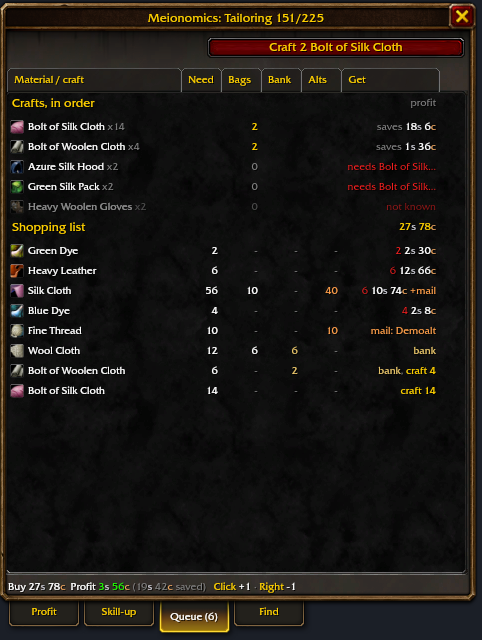
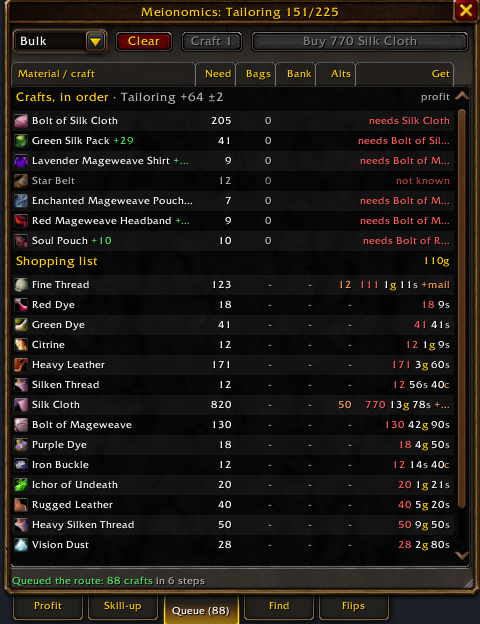
README: cheapest levelling first, with the cost table and Legacy points
Out of early test. A picture per feature: route, skill-up, queue, AH shopping, sniper,
sell, flips.

Claude-Session: https://claude.ai/code/session_01Fpmmnu4E83qHzSHWz72m5s

diff --git a/README.md b/README.md
@@ -1,29 +1,90 @@
 # Meionomics
 
-What to craft for profit or skill-ups, what to sell and what to buy, for WoW Forever.
+The cheapest way to level your professions in WoW Forever, plus what to craft for profit,
+what to sell and what to buy.
 
-**Early test, not ready yet.** Expect rough edges; feedback welcome on GitHub issues.
+## The cheapest way to level your professions
 
-![The Meionomics panel beside Tailoring at 151: recipes ranked by cost per skill point, each
-with a verdict (Do it, If levelling, Costly), chance of a skill-up and cost](docs/skillup.png)
+Meionomics plans every skill-up from your own Auction House's prices: which recipe at each
+step, what to buy, what to learn and what to sell back. With the same prices and the same
+skill-up chances, it costs less gold than following the guides.
 
-## What it does
+![Gold spent levelling 1 to 300 with the same AH prices and skill-up chances: Tailoring
+362g with Meionomics against 394g, 940g and 531g with the guides; Alchemy 26g against
+32g, 51g and 37g; Leatherworking 173g against 254g, 1049g and 386g](docs/cost.png)
 
-A panel beside your profession window, and a Meionomics tab at the Auction House. Uses
-TradeSkillMaster's prices when installed, else scans the AH itself.
+**Levelling professions for Legacy points?** Alchemy, Blacksmithing, Enchanting,
+Engineering, Leatherworking and Tailoring each give a Legacy point at 150, 225 and 300:
+18 points for your account. Meionomics gets you to each milestone for the least gold.
+
+## Route to a skill
+
+Type the skill you want and Meionomics gives the cheapest route there: which recipe for
+each stretch of skill, how many crafts, what to learn and every material in one list.
+
+![Route from Tailoring 151 to 225: seven steps from Green Silk Pack to Soul Pouch, each
+with crafts, learning cost and cost per point, and the materials to buy](docs/route.png)
+
+Hover the summary for what the route costs and what selling the crafts brings back.
+
+![The route's breakdown: materials to buy 104g, learning 4g 36s, crafts sold 120g, a net
+gain of 10g 66s](docs/route-cost.png)
+
+## Skill-up
+
+Every recipe that still gives points, known or learnable, cheapest per point first, with
+a verdict (Do it, If levelling, Costly), the chance of a skill-up and where to learn it.
+
+![Tailoring at 151: known and learnable recipes ranked by cost per skill point, each with
+a verdict and its skill-up chance](docs/skillup.png)
+
+## Queue
+
+Click recipes or a whole route to queue them. The queue works out what to take from bags,
+bank, mail and alts and what to buy, and crafts intermediates (bolts, bars) first.
+**Craft next** crafts the next step.
+
+![The queued route: crafts in order with what each still needs, then the shopping list
+with what bags, bank and alts already hold](docs/queue.png)
+
+## Auction House
+
+A Meionomics tab at the Auction House. Uses TradeSkillMaster's prices when installed, else
+scans the AH itself.
+
+**Shopping** buys what the queue needs, cheapest first, and skips listings priced too
+high.
+
+![Shopping: every listing of the queue's materials with its price against market, and buy
+or too dear for each](docs/shopping.png)
+
+**Sniper** watches new listings and sounds an alarm for deals below market or vendor
+price.
+
+![Sniper: listings under half their market price, sorted by profit](docs/sniper.png)
+
+**Sell** prices your bag items to sell within a day and posts them one click at a time.
+
+![Sell: bag items with the price to post at, the cheapest listing, the deposit and the
+chance it sells](docs/sell.png)
+
+Also: Browse (deals below market or vendor price), Patterns worth learning and BiS
+upgrades.
+
+## Flips
+
+Crafting chains that turn gold into more gold, using every character's recipes: profit,
+margin, gold per hour and how many a day the AH can take.
+
+![Craft flips ranked by profit, with the breakdown of one: what to buy, who crafts it,
+what it sells for and the profit per craft](docs/flips.png)
+
+## Also
 
 - **Profit**: every recipe with a verdict (Do it, Slow seller, Costly...), profit after
   the AH cut and how many sell a day
-- **Skill-up**: cheapest per point first, or **Route to** a skill you type in
-- **Queue**: click recipes to queue them; it works out what to take from bags, bank, mail
-  and alts, what to buy, and crafts intermediates (bolts, bars) first. **Craft next**
-  crafts the next step
 - **Find**: every recipe of your professions, known or not, with where to get the pattern
   and how many sales pay it back
-- **Flips**: chains that turn gold into more gold, using every character's recipes
-- **Auction House**: Browse (deals below market or vendor price), Patterns worth learning,
-  Sell (your bag items at a price that sells within a day), Shopping (what the queue
-  needs), BiS upgrades, and a Sniper with deal alarms
 - **Tooltips**: best way to sell an item (AH, vendor, disenchant, craft), sales a day, how
   many you and your alts have; quest reward values
 - **Worth window**: what every character's bags, bank, gear, mail and auctions are worth
